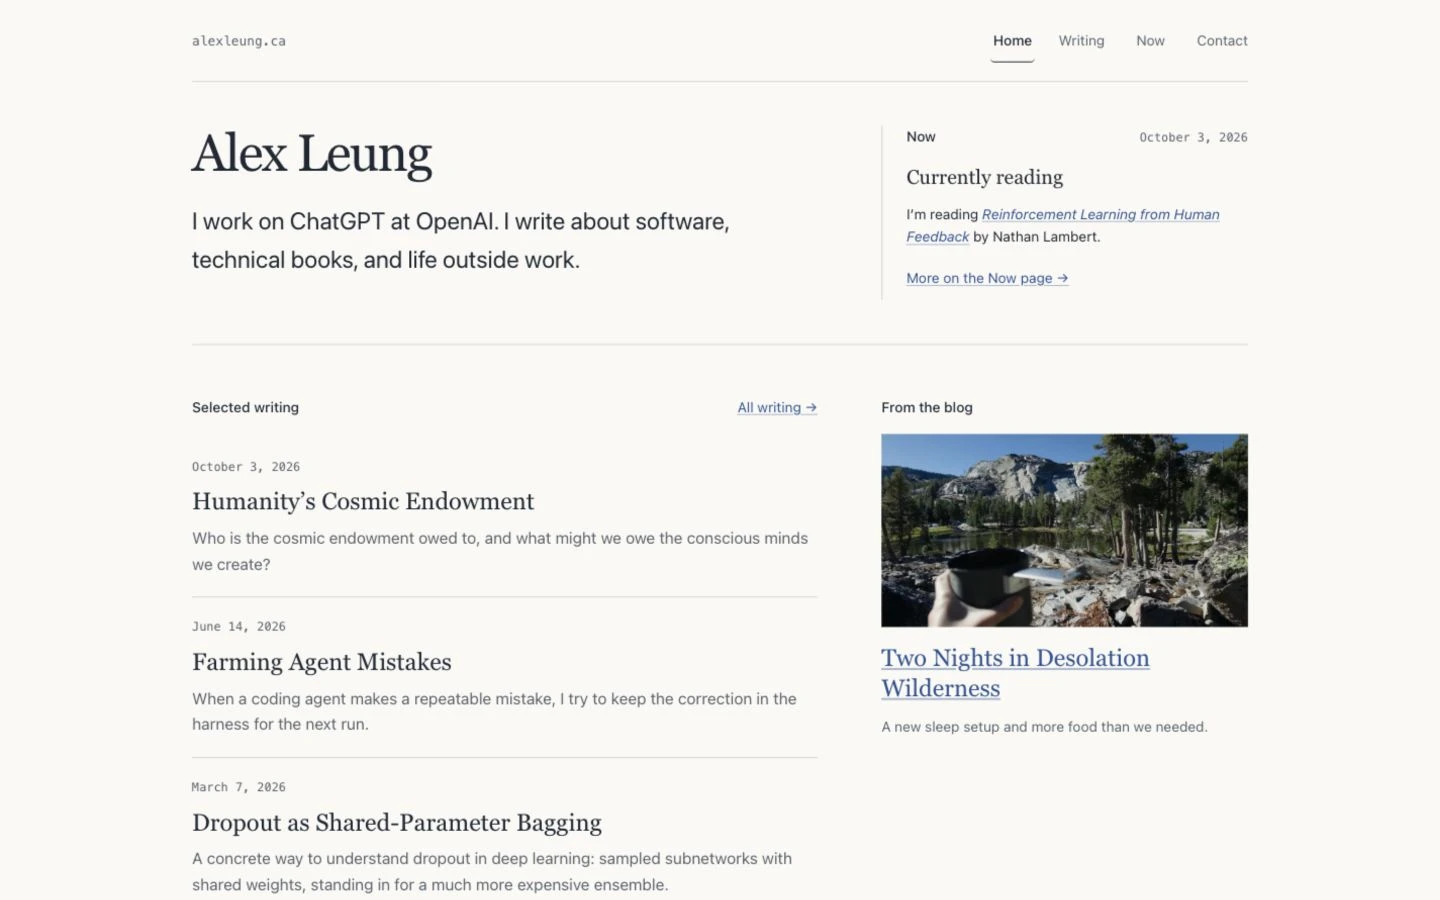
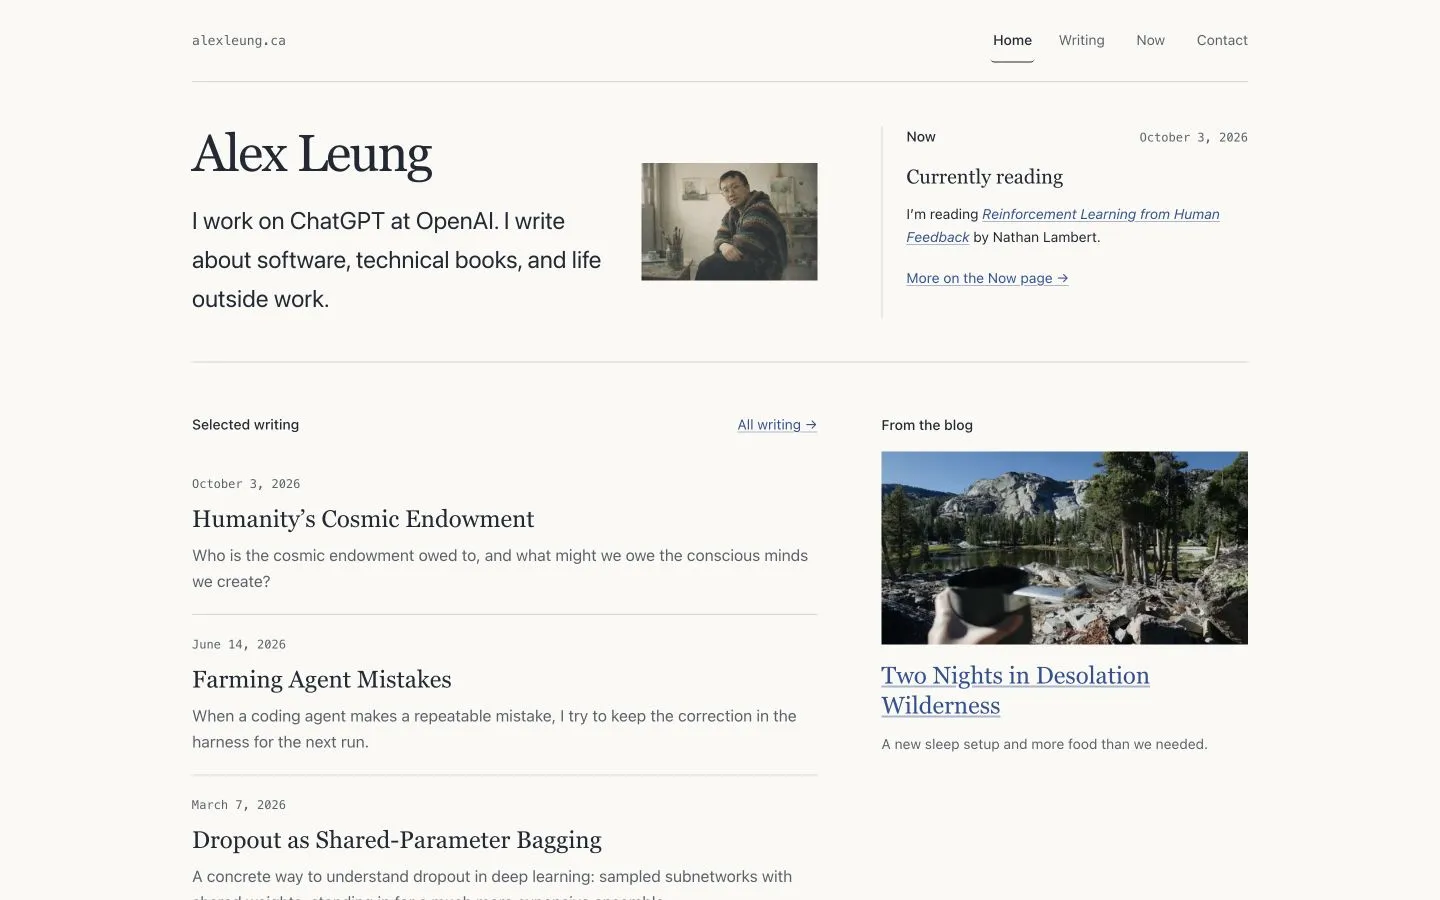
Add uncropped portrait beside homepage introduction

diff --git a/src/components/Hero.tsx b/src/components/Hero.tsx
@@ -1,23 +1,44 @@
 import { LinkText } from "@/components/LinkText";
 import { NowEntry } from "@/components/NowEntry";
+import { ResponsiveImage } from "@/components/ResponsiveImage";
 import {
   NOW_CONTENT,
   NOW_PAGE_LAST_UPDATED_DISPLAY,
   NOW_PAGE_LAST_UPDATED_ISO,
 } from "@/constants/now";
+import {
+  getStaticImageFallback,
+  getStaticImageSourceSet,
+} from "@/lib/localImageMetadata";
 
 export function Hero() {
+  const portrait = getStaticImageFallback("heroPortrait");
+
   return (
     <section id="about" aria-labelledby="home-title" className="section-center">
       <div className="grid gap-7 border-b border-line py-8 md:grid-cols-[minmax(0,1.45fr)_minmax(0,0.85fr)] md:gap-16 md:py-11">
-        <div>
-          <h1 id="home-title" className="text-hero-title text-ink">
-            Alex Leung
-          </h1>
-          <p className="text-hero-description mt-5 max-w-xl leading-relaxed text-ink">
-            I work on ChatGPT at OpenAI. I write about software, technical
-            books, and life outside work.
-          </p>
+        <div className="grid grid-cols-[minmax(0,1fr)_5rem] items-center gap-5 sm:grid-cols-[minmax(0,1fr)_9rem] md:gap-6 lg:grid-cols-[minmax(0,1fr)_11rem]">
+          <div>
+            <h1 id="home-title" className="text-hero-title text-ink">
+              Alex Leung
+            </h1>
+            <p className="text-hero-description mt-5 max-w-xl leading-relaxed text-ink">
+              I work on ChatGPT at OpenAI. I write about software, technical
+              books, and life outside work.
+            </p>
+          </div>
+          <ResponsiveImage
+            src={portrait.path}
+            srcSet={getStaticImageSourceSet("heroPortrait")}
+            alt="Alex Leung in an art studio"
+            width={portrait.width}
+            height={portrait.height}
+            sizes="(min-width: 1024px) 176px, (min-width: 640px) 144px, 80px"
+            pictureClassName="block"
+            className="h-auto w-full"
+            loading="eager"
+            decoding="async"
+          />
         </div>
         <aside
           aria-labelledby="home-now-heading"
